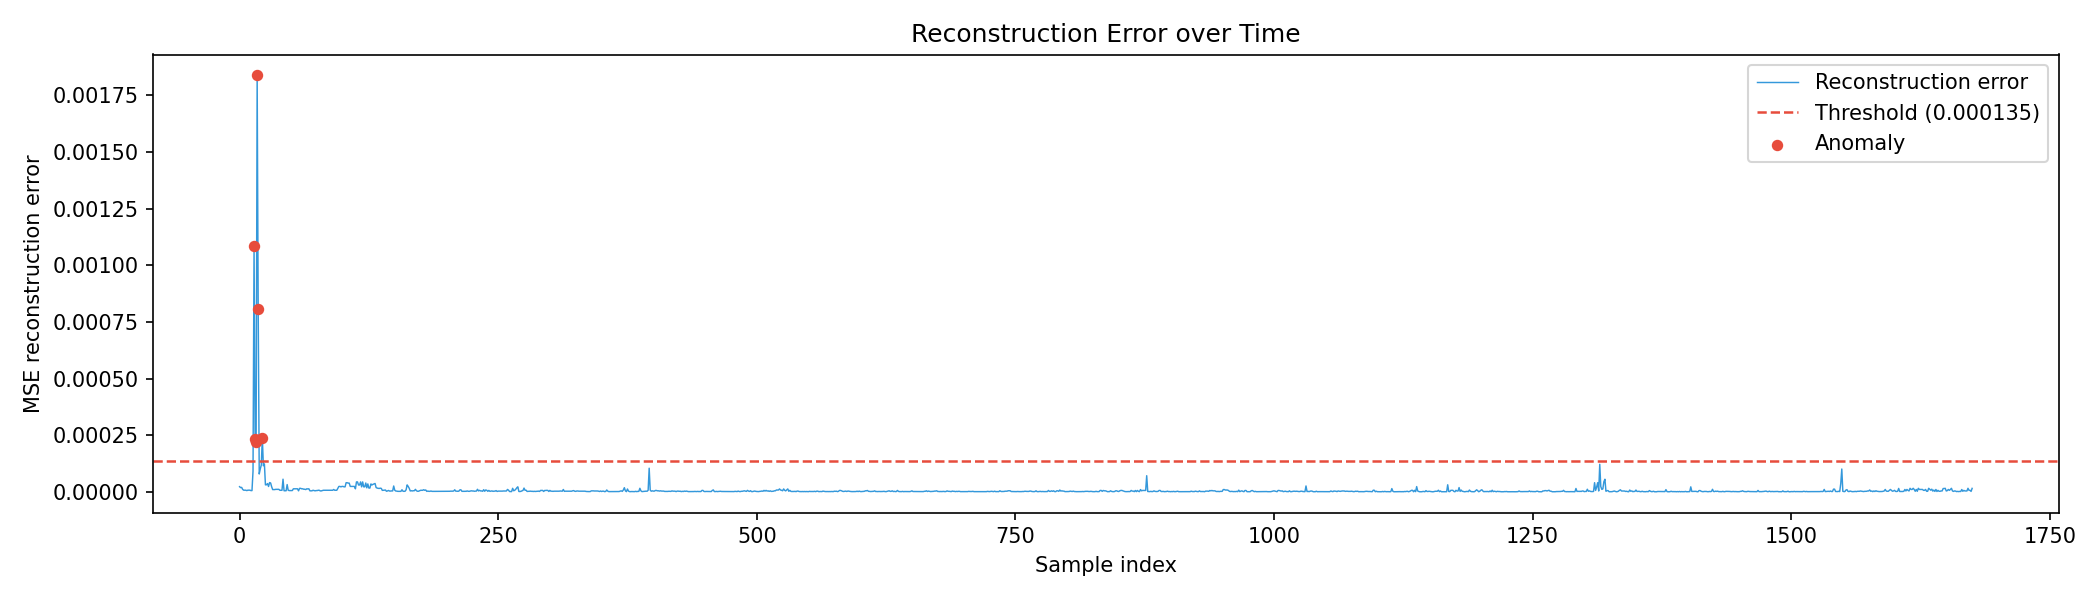
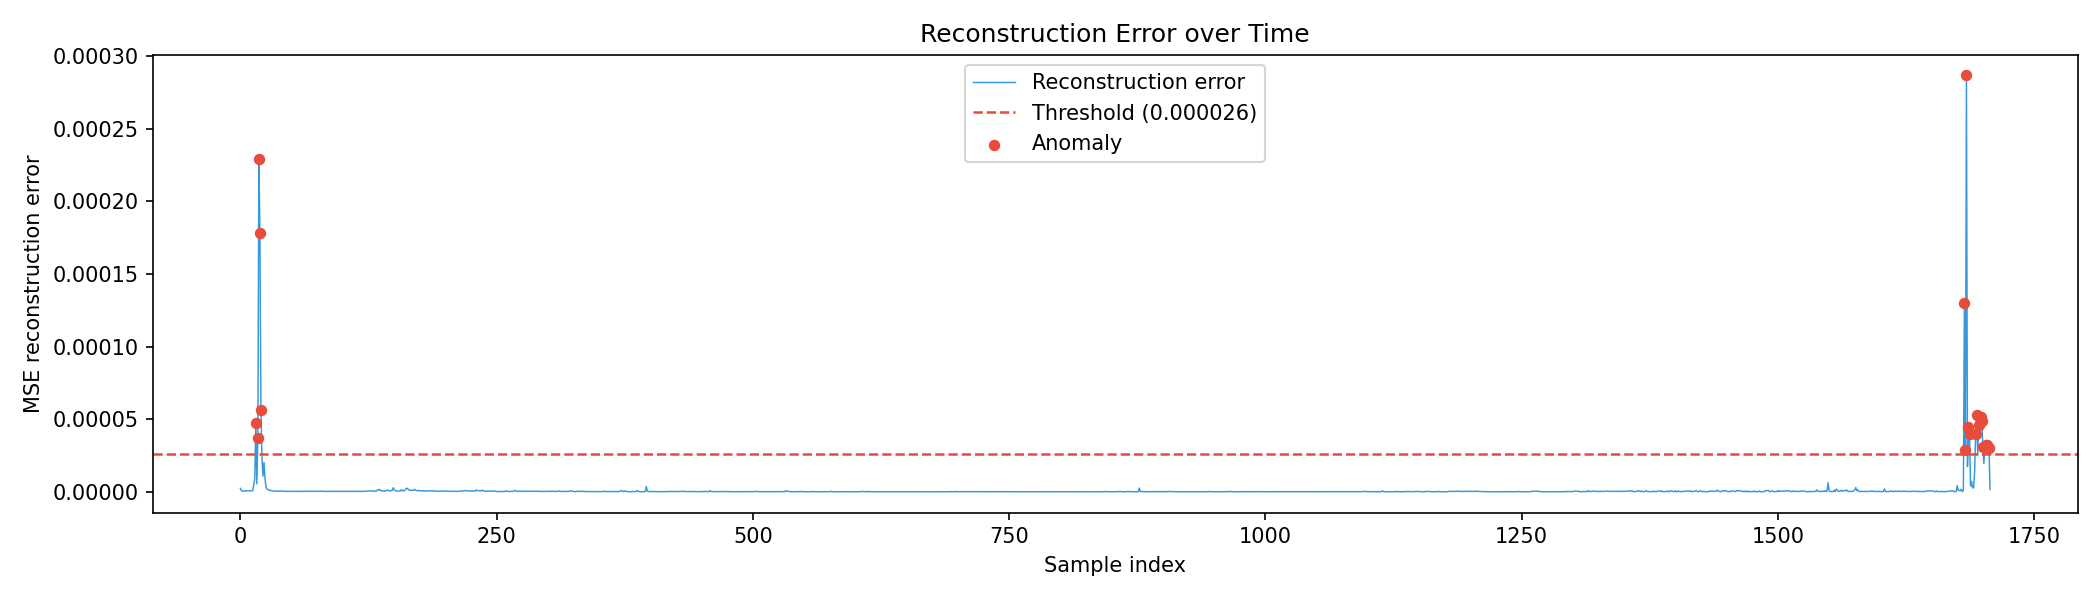
removed pressure from factors. successfully detected anomalies using an inference model on UNO Q.

diff --git a/receiver/receiver.py b/receiver/receiver.py
@@ -1,4 +1,4 @@
-"""UDP receiver — listens for ESP32 sensor packets, logs to CSV, and drives Uno Q alert LED via ADB."""
+"""UDP receiver — receives ESP32 sensor packets, runs ML inference on Uno Q, controls alert LED."""
 
 import csv
 import json
@@ -9,14 +9,15 @@ from pathlib import Path
 
 UDP_IP   = "0.0.0.0"
 UDP_PORT = 5005
-CSV_PATH = Path(__file__).parent.parent / "data" / "sensor_log.csv"
-CSV_HEADERS = ["timestamp", "temperature", "humidity", "pressure"]
 
-TEMP_HIGH     = 30.0   # °C
-HUMIDITY_HIGH = 80.0   # %
-PRESSURE_LOW  = 950.0  # hPa
+CSV_PATH      = Path(__file__).parent.parent / "data" / "sensor_log.csv"
+ANOMALY_PATH  = Path(__file__).parent.parent / "data" / "anomaly_log.csv"
 
-LED_PATH = "/sys/class/leds/red:user/brightness"
+CSV_HEADERS     = ["timestamp", "temperature", "humidity", "pressure"]
+ANOMALY_HEADERS = ["timestamp", "temperature", "humidity", "pressure", "reconstruction_error", "confidence"]
+
+LED_PATH       = "/sys/class/leds/red:user/brightness"
+INFERENCE_SCRIPT = "/home/arduino/inference_uno_q.py"
 
 
 def set_alert_led(on: bool) -> None:
@@ -24,72 +25,98 @@ def set_alert_led(on: bool) -> None:
     subprocess.run(["adb", "shell", f"echo {value} > {LED_PATH}"], capture_output=True)
 
 
-def check_thresholds(temp: float, humidity: float, pressure: float) -> list[str]:
-    reasons = []
-    if temp > TEMP_HIGH:
-        reasons.append(f"temp={temp}°C > {TEMP_HIGH}")
-    if humidity > HUMIDITY_HIGH:
-        reasons.append(f"humidity={humidity}% > {HUMIDITY_HIGH}")
-    if pressure < PRESSURE_LOW:
-        reasons.append(f"pressure={pressure}hPa < {PRESSURE_LOW}")
-    return reasons
+def run_inference(temp: float, humidity: float) -> dict | None:
+    payload = json.dumps({"temperature": temp, "humidity": humidity})
+    result  = subprocess.run(
+        ["adb", "shell", f"python3 {INFERENCE_SCRIPT} '{payload}'"],
+        capture_output=True, text=True, timeout=10,
+    )
+    if result.returncode != 0 or not result.stdout.strip():
+        return None
+    return json.loads(result.stdout.strip())
 
 
 def main():
     sock = socket.socket(socket.AF_INET, socket.SOCK_DGRAM)
     sock.bind((UDP_IP, UDP_PORT))
 
-    print(f"Listening on UDP port {UDP_PORT} (all interfaces)")
-    print(f"Saving readings to: {CSV_PATH}")
-    print(f"Thresholds: temp>{TEMP_HIGH}°C  humidity>{HUMIDITY_HIGH}%  pressure<{PRESSURE_LOW}hPa")
+    print(f"Listening on UDP port {UDP_PORT}")
+    print(f"Sensor log  : {CSV_PATH}")
+    print(f"Anomaly log : {ANOMALY_PATH}")
     print("Press Ctrl+C to stop.\n")
 
     CSV_PATH.parent.mkdir(parents=True, exist_ok=True)
-    csv_file = open(CSV_PATH, "a", newline="")
-    writer = csv.DictWriter(csv_file, fieldnames=CSV_HEADERS)
+
+    sensor_file = open(CSV_PATH, "a", newline="")
+    sensor_writer = csv.DictWriter(sensor_file, fieldnames=CSV_HEADERS)
     if CSV_PATH.stat().st_size == 0:
-        writer.writeheader()
+        sensor_writer.writeheader()
+
+    anomaly_file = open(ANOMALY_PATH, "a", newline="")
+    anomaly_writer = csv.DictWriter(anomaly_file, fieldnames=ANOMALY_HEADERS)
+    if ANOMALY_PATH.stat().st_size == 0:
+        anomaly_writer.writeheader()
 
     alert_active = False
-    set_alert_led(False)  # ensure LED starts off
+    set_alert_led(False)
 
     count = 0
     try:
         while True:
             data, addr = sock.recvfrom(1024)
-            payload = json.loads(data.decode())
+            payload  = json.loads(data.decode())
 
             ts       = datetime.fromtimestamp(payload["timestamp"]).strftime("%Y-%m-%d %H:%M:%S")
             temp     = float(payload["temperature"])
             humidity = float(payload["humidity"])
             pressure = float(payload["pressure"])
 
-            reasons = check_thresholds(temp, humidity, pressure)
-            alert   = len(reasons) > 0
+            # ── Run inference on Uno Q ────────────────────────────────────────
+            inference = run_inference(temp, humidity)
 
-            # Only call ADB when state changes to avoid hammering it every 5s
-            if alert != alert_active:
-                alert_active = alert
-                set_alert_led(alert_active)
+            if inference is None:
+                print(f"[{ts}]  [WARN] Inference failed — check ADB connection")
+            else:
+                is_anomaly  = inference["anomaly"]
+                confidence  = inference["confidence"]
+                recon_err   = inference["reconstruction_error"]
 
-            status = "ALERT" if alert else "OK   "
-            detail = "  !! " + ", ".join(reasons) if reasons else ""
-            print(f"[{ts}]  [{status}]  temp={temp}°C  humidity={humidity}%  pressure={pressure}hPa{detail}")
+                # Toggle LED only when state changes
+                if is_anomaly != alert_active:
+                    alert_active = is_anomaly
+                    set_alert_led(alert_active)
 
-            writer.writerow({
+                status = "ANOMALY" if is_anomaly else "OK     "
+                detail = f"  !! confidence={confidence}  recon_err={recon_err}" if is_anomaly else ""
+                print(f"[{ts}]  [{status}]  temp={temp}°C  humidity={humidity}%{detail}")
+
+                if is_anomaly:
+                    anomaly_writer.writerow({
+                        "timestamp":           ts,
+                        "temperature":         temp,
+                        "humidity":            humidity,
+                        "pressure":            pressure,
+                        "reconstruction_error": recon_err,
+                        "confidence":          confidence,
+                    })
+                    anomaly_file.flush()
+
+            # ── Log every reading to sensor CSV ───────────────────────────────
+            sensor_writer.writerow({
                 "timestamp":   ts,
                 "temperature": temp,
                 "humidity":    humidity,
                 "pressure":    pressure,
             })
-            csv_file.flush()
+            sensor_file.flush()
             count += 1
 
     except KeyboardInterrupt:
-        print(f"\nStopped. {count} reading(s) saved to {CSV_PATH}")
+        print(f"\nStopped. {count} reading(s) received.")
         set_alert_led(False)
     finally:
-        csv_file.close()
+        sensor_file.close()
+        anomaly_file.close()
         sock.close()
 
 

diff --git a/ml/convert.py b/ml/convert.py
@@ -26,11 +26,11 @@ with open(SCALER_PKL, "rb") as f:
     scaler = pickle.load(f)
 
 samples = np.array([
-    [26.5, 41.9, 998.8],  # typical normal
-    [27.0, 42.5, 998.7],  # normal
-    [26.2, 41.3, 998.6],  # normal
-    [30.2, 85.0, 999.3],  # borderline (real anomaly from dataset)
-    [45.0, 95.0, 940.0],  # extreme anomaly
+    [26.5, 41.9],  # typical normal
+    [27.0, 42.5],  # normal
+    [26.2, 41.3],  # normal
+    [30.2, 85.0],  # borderline (real anomaly from dataset)
+    [45.0, 95.0],  # extreme anomaly
 ], dtype=np.float32)
 
 samples_norm = scaler.transform(samples).astype(np.float32)
@@ -42,13 +42,13 @@ output_details = interpreter.get_output_details()
 
 print("=== Verification (5 sample readings) ===")
 for i, (raw, norm) in enumerate(zip(samples, samples_norm)):
-    interpreter.set_tensor(input_details[0]["index"], norm.reshape(1, 3))
+    interpreter.set_tensor(input_details[0]["index"], norm.reshape(1, 2))
     interpreter.invoke()
     recon     = interpreter.get_tensor(output_details[0]["index"])[0]
     recon_err = float(np.mean(np.square(norm - recon)))
     label = ["normal", "normal", "normal", "borderline", "extreme anomaly"][i]
     print(f"  sample {i+1} [{label}]: "
-          f"temp={raw[0]}°C  hum={raw[1]}%  pres={raw[2]}hPa  "
+          f"temp={raw[0]}°C  hum={raw[1]}%  "
           f"→  recon_error={recon_err:.6f}")
 
 print("\nConversion verified successfully.")

diff --git a/ml/test.py b/ml/test.py
@@ -23,7 +23,7 @@ with open(THRESH_PKL, "rb") as f:
     threshold = pickle.load(f)
 
 df       = pd.read_csv(DATA_PATH, parse_dates=["timestamp"])
-features = ["temperature", "humidity", "pressure"]
+features = ["temperature", "humidity"]
 X        = scaler.transform(df[features].values)
 
 print(f"Loaded {len(df)} rows")
@@ -47,18 +47,18 @@ if len(anomalies) > 0:
 
 # ── Simulate fake anomalies ───────────────────────────────────────────────────
 fake = np.array([
-    [45.0, 95.0, 940.0],
-    [45.0, 95.0, 940.0],
-    [45.0, 95.0, 940.0],
-    [45.0, 95.0, 940.0],
-    [45.0, 95.0, 940.0],
+    [45.0, 95.0],
+    [45.0, 95.0],
+    [45.0, 95.0],
+    [45.0, 95.0],
+    [45.0, 95.0],
 ])
 fake_norm  = scaler.transform(fake)
 fake_pred  = model.predict(fake_norm, verbose=0)
 fake_err   = np.mean(np.square(fake_norm - fake_pred), axis=1)
 fake_flags = fake_err > threshold
 
-print(f"\n=== Simulated Anomalies (temp=45°C, humidity=95%, pressure=940hPa) ===")
+print(f"\n=== Simulated Anomalies (temp=45°C, humidity=95%) ===")
 for i, (err, flagged) in enumerate(zip(fake_err, fake_flags)):
     result = "FLAGGED ✓" if flagged else "missed ✗"
     print(f"  sample {i+1}: recon_error={err:.6f}  →  {result}")

diff --git a/ml/train.py b/ml/train.py
@@ -22,13 +22,13 @@ X_train, X_val = train_test_split(X, test_size=0.2, random_state=42, shuffle=Tru
 print(f"Train: {X_train.shape}  Val: {X_val.shape}")
 
 # ── Build autoencoder ─────────────────────────────────────────────────────────
-inputs  = keras.Input(shape=(3,))
+inputs  = keras.Input(shape=(2,))
 encoded = layers.Dense(16, activation="relu")(inputs)
 encoded = layers.Dense(8,  activation="relu")(encoded)
 encoded = layers.Dense(4,  activation="relu")(encoded)
 decoded = layers.Dense(8,  activation="relu")(encoded)
 decoded = layers.Dense(16, activation="relu")(decoded)
-outputs = layers.Dense(3,  activation="linear")(decoded)
+outputs = layers.Dense(2,  activation="linear")(decoded)
 
 model = keras.Model(inputs, outputs, name="anomaly_autoencoder")
 model.compile(optimizer="adam", loss="mse")

diff --git a/ml/explore.py b/ml/explore.py
@@ -17,7 +17,7 @@ PLOTS_DIR.mkdir(parents=True, exist_ok=True)
 
 # ── Load ──────────────────────────────────────────────────────────────────────
 df = pd.read_csv(DATA_PATH, parse_dates=["timestamp"])
-features = ["temperature", "humidity", "pressure"]
+features = ["temperature", "humidity"]
 
 print(f"Loaded {len(df)} rows from {DATA_PATH.name}\n")
 

diff --git a/ml/export_weights.py b/ml/export_weights.py
@@ -41,7 +41,7 @@ payload = {
     "layers":    layers_data,
     "scaler":    scaler_params,
     "threshold": threshold,
-    "features":  ["temperature", "humidity", "pressure"],
+    "features":  ["temperature", "humidity"],
 }
 
 with open(WEIGHTS_OUT, "w") as f: